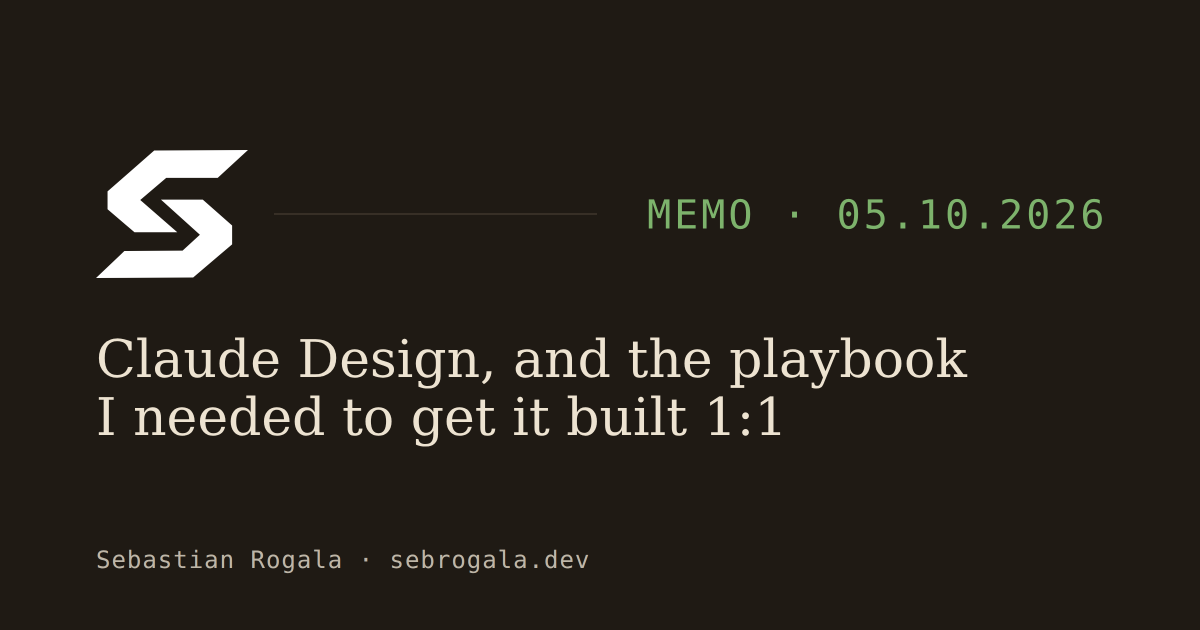
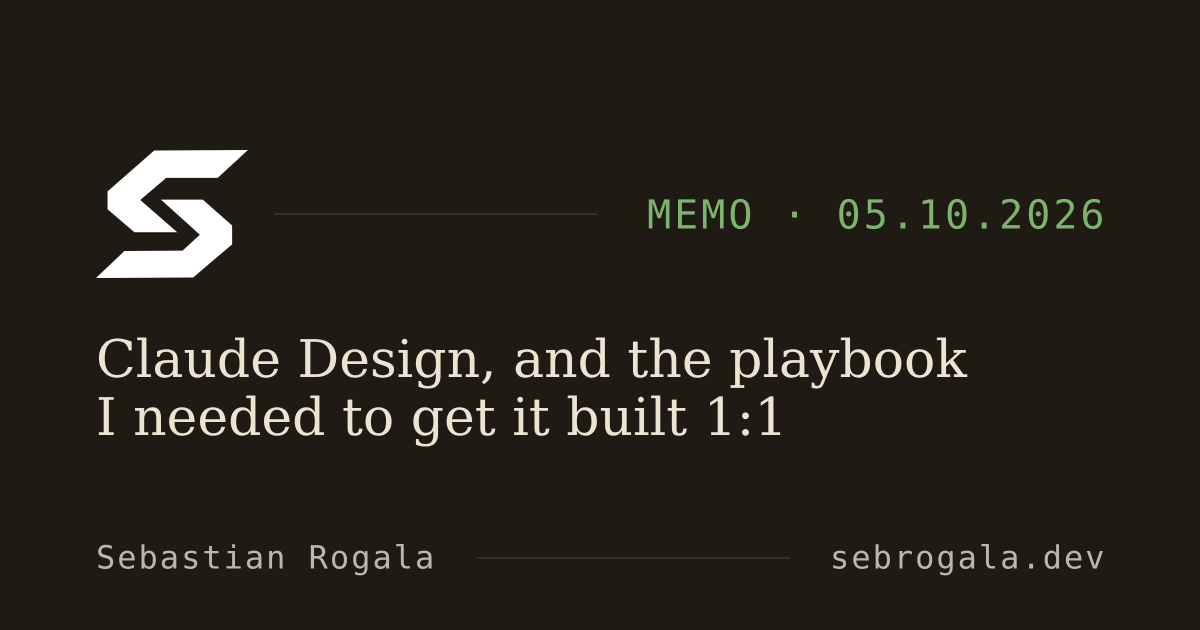
OG cards: 4:3 and 1:1 renders; JSON-LD lists all three ratios
- brand/og-card/render.sh writes <name>.png (16:9), <name>-4x3.png and
  <name>-1x1.png in one run; templates lay out from ?format= (headless
  Chrome's viewport at script time is 1200x543, not --window-size)
- Overflow check moved from render-memos.mjs into render.sh, per format
- Tall site cards: name on two centred lines, block centred vertically;
  16:9 site card unchanged (pixel-identical render)
- Tall memo cards: larger title ladder, name line follows the title, group
  centred vertically
- Memo name line on all formats: 32px, name left, domain right, top-row
  rule between; live 16:9 memo PNGs re-rendered under the same names
- src/lib/ogCard.ts: siteCard path and cardFormats(); Person and
  BlogPosting JSON-LD image lists 1:1, 4:3, 16:9; og:image stays 16:9
- assertOgCard fails the build when any memo render is missing

Changed region(s): [[0.0617, 0.8444, 0.4933, 0.9048], [0.6783, 0.8746, 0.925, 0.9048]]

diff --git a/brand/og-card/memo-card.html b/brand/og-card/memo-card.html
@@ -3,12 +3,18 @@
   Memo social card (og:image), 1200x630, one per memo. Rendered by
   render-memos.mjs through render.sh; reads ?title=…&date=DD.MM.YYYY.
   Mark, rule and tag geometry are identical to og-card.html; the tag reads
-  MEMO · DD.MM.YYYY. Title size starts from the character count (up to 80 → 64px,
+  MEMO · DD.MM.YYYY. The name line echoes the top row: name left, domain right,
+  the same rule between them. Title size starts from the character count (up to 80 → 64px,
   up to 110 → 52px, longer → 44px), then steps down while the title would come
   within 24px of the name line: DejaVu Serif runs wider than the fonts the count
-  thresholds were set with. If 44px still collides, <body> gets data-overflow and
-  render-memos.mjs refuses the card.
+  thresholds were set with. If the smallest size still collides, <body> gets
+  data-overflow and render.sh refuses the card.
   /command tokens in the title are set in the mono face at 0.86em.
+  render.sh also renders 1200x900 (4:3) and 1200x1200 (1:1); the format comes
+  from ?format=. Those use a larger size ladder (4:3: 76/64/52px, 1:1:
+  88/72/60px) with the same thresholds and step-down, and set the name line
+  56px under the title, centring the group from mark to name line in the card
+  height. The 16:9 layout is unchanged.
   DejaVu fonts are named explicitly so the render does not depend on a fallback.
 -->
 <html>
@@ -31,18 +37,32 @@
   }
   .title .cmd { font-family: 'DejaVu Sans Mono'; font-size: 0.86em; }
   .name {
-    position: absolute; left: 96px; bottom: 56px;
-    font-family: 'DejaVu Sans Mono'; font-size: 24px; letter-spacing: 1px;
+    position: absolute; left: 96px; right: 95.5px; bottom: 56px;
+    display: flex; align-items: center; gap: 40px;
+    font-family: 'DejaVu Sans Mono'; font-size: 32px; line-height: 1; letter-spacing: 2px;
     color: #beb6a7; white-space: nowrap;
   }
+  .name span:last-child { margin-right: -2px; }
+  .name i { flex: 1; height: 2px; background: #372f26; }
+  [data-format="4x3"], [data-format="4x3"] body { height: 900px; }
+  [data-format="1x1"], [data-format="1x1"] body { height: 1200px; }
+  #comp { position: absolute; inset: 0; }
 </style>
 </head>
 <body>
-  <img class="mark" src="../svg/sebrogala-1.2A-exact-light.svg" alt="">
-  <div class="rule" id="rule"></div>
-  <div class="tag" id="tag"></div>
-  <div class="title" id="title"></div>
-  <div class="name">Sebastian Rogala · sebrogala.dev</div>
+  <script>
+    // Format from the query, not the viewport: headless Chrome's viewport at
+    // script time is shorter than --window-size.
+    var format = new URLSearchParams(location.search).get('format') || '16x9';
+    document.documentElement.dataset.format = format;
+  </script>
+  <div id="comp">
+    <img class="mark" src="../svg/sebrogala-1.2A-exact-light.svg" alt="">
+    <div class="rule" id="rule"></div>
+    <div class="tag" id="tag"></div>
+    <div class="title" id="title"></div>
+  </div>
+  <div class="name"><span>Sebastian Rogala</span><i></i><span>sebrogala.dev</span></div>
   <script>
     var params = new URLSearchParams(location.search);
     var title = params.get('title') || '';
@@ -60,7 +80,7 @@
       el.appendChild(span);
     });
 
-    var sizes = [64, 52, 44];
+    var sizes = { '16x9': [64, 52, 44], '4x3': [76, 64, 52], '1x1': [88, 72, 60] }[format];
     var limit = document.querySelector('.name').getBoundingClientRect().top - 24;
     var i = title.length <= 80 ? 0 : title.length <= 110 ? 1 : 2;
     el.style.fontSize = sizes[i] + 'px';
@@ -71,6 +91,17 @@
 
     var tag = document.getElementById('tag').getBoundingClientRect();
     document.getElementById('rule').style.width = (tag.left - 50 - 274) + 'px';
+
+    if (format !== '16x9') {
+      // The name line follows the title, and the group from mark to name line is
+      // centred in the card height. The sizing above still guards the overflow.
+      var nameEl = document.querySelector('.name');
+      nameEl.style.bottom = 'auto';
+      nameEl.style.top = (el.getBoundingClientRect().bottom + 56) + 'px';
+      document.getElementById('comp').appendChild(nameEl);
+      var shift = (document.body.offsetHeight - (nameEl.getBoundingClientRect().bottom - 150)) / 2 - 150;
+      document.getElementById('comp').style.transform = 'translateY(' + shift + 'px)';
+    }
   </script>
 </body>
 </html>

diff --git a/brand/og-card/og-card.html b/brand/og-card/og-card.html
@@ -9,6 +9,10 @@
   Rendered at 2x and box-downscaled; a 1x render hints the glyphs differently.
   The rule runs from x=274 to 50px before the tagline box, so a longer tagline
   gives a shorter rule.
+  render.sh also renders 1200x900 (4:3) and 1200x1200 (1:1), for structured data
+  that lists one image per aspect ratio. The format comes from ?format=. In
+  the taller formats the name sets on two centred lines at a larger size, and the block
+  from mark to the name's last baseline is centred vertically. The 16:9 layout is unchanged.
 -->
 <html>
 <head>
@@ -28,16 +32,38 @@
     font-family: 'DejaVu Serif'; font-size: 116px; line-height: 1;
     color: #ede3d1; white-space: nowrap;
   }
+  [data-format="4x3"], [data-format="4x3"] body { height: 900px; }
+  [data-format="1x1"], [data-format="1x1"] body { height: 1200px; }
+  #comp { position: absolute; inset: 0; }
+  [data-format="4x3"] .name { font-size: 150px; }
+  [data-format="1x1"] .name { font-size: 192px; }
+  [data-format="4x3"] .name span, [data-format="1x1"] .name span { display: block; }
+  [data-format="4x3"] .name, [data-format="1x1"] .name { left: 0; right: 0; text-align: center; }
 </style>
 </head>
 <body>
-  <img class="mark" src="../svg/sebrogala-1.2A-exact-light.svg" alt="">
-  <div class="rule" id="rule"></div>
-  <div class="tag" id="tag">AI-NATIVE SOFTWARE ENGINEER</div>
-  <div class="name">Sebastian Rogala</div>
+  <script>
+    // Format from the query, not the viewport: headless Chrome's viewport at
+    // script time is shorter than --window-size.
+    var format = new URLSearchParams(location.search).get('format') || '16x9';
+    document.documentElement.dataset.format = format;
+  </script>
+  <div id="comp">
+    <img class="mark" src="../svg/sebrogala-1.2A-exact-light.svg" alt="">
+    <div class="rule" id="rule"></div>
+    <div class="tag" id="tag">AI-NATIVE SOFTWARE ENGINEER</div>
+    <div class="name" id="name"><span>Sebastian</span> <span>Rogala</span></div>
+  </div>
   <script>
     var tag = document.getElementById('tag').getBoundingClientRect();
     document.getElementById('rule').style.width = (tag.left - 50 - 274) + 'px';
+    if (format !== '16x9') {
+      // Centre on the last baseline, not the line box: DejaVu's descent is ~0.24em.
+      var nameEl = document.getElementById('name');
+      var bottom = nameEl.getBoundingClientRect().bottom - 0.24 * parseFloat(getComputedStyle(nameEl).fontSize);
+      var shift = (document.body.offsetHeight - (bottom - 150)) / 2 - 150;
+      document.getElementById('comp').style.transform = 'translateY(' + shift + 'px)';
+    }
   </script>
 </body>
 </html>

diff --git a/src/lib/memos.ts b/src/lib/memos.ts
@@ -3,6 +3,7 @@
 import { existsSync, readFileSync } from 'node:fs';
 import { join } from 'node:path';
 import { getCollection, type CollectionEntry } from 'astro:content';
+import { cardFormats } from './ogCard';
 
 export type Memo = CollectionEntry<'memos'>;
 
@@ -101,18 +102,21 @@ export const excerptText = (memo: Memo) =>
 
 // ─── OG card ─────────────────────────────────────────────────────
 
-/** Site path of the memo's OG card; rendered by brand/og-card/render-memos.mjs. */
+/** Site path of the memo's 16:9 OG card; rendered, with its cardFormats()
+ * siblings, by brand/og-card/render-memos.mjs. */
 export const ogCardPath = (memo: Memo) => `/og/memos/${memo.id}.png`;
 
 /**
- * Fails the build when a memo's card is missing or stale (rendered for another
+ * Fails the build when any of a memo's card renders is missing, or the card is stale (rendered for another
  * title or date than the memo now has), so no memo ships with a wrong card.
  * render-memos.mjs records what each card shows in brand/og-card/memo-cards.json.
  */
 export const assertOgCard = (memo: Memo) => {
   const fix = `Run: node brand/og-card/render-memos.mjs --only ${memo.id}`;
-  const file = join(process.cwd(), 'public', ogCardPath(memo));
-  if (!existsSync(file)) throw new Error(`Missing OG card for memo "${memo.id}": ${file}. ${fix}`);
+  for (const path of cardFormats(ogCardPath(memo))) {
+    const file = join(process.cwd(), 'public', path);
+    if (!existsSync(file)) throw new Error(`Missing OG card for memo "${memo.id}": ${file}. ${fix}`);
+  }
   const manifestPath = join(process.cwd(), 'brand', 'og-card', 'memo-cards.json');
   const rendered = existsSync(manifestPath) ? JSON.parse(readFileSync(manifestPath, 'utf8'))[memo.id] : undefined;
   const expected = { title: memo.data.title, date: formatDate(memo.data.published) };

diff --git a/src/lib/structuredData.ts b/src/lib/structuredData.ts
@@ -1,5 +1,6 @@
 // JSON-LD for the <head> (passed to Base as `jsonLd`). Person facts live here
 // once; every value is something the site already shows on its pages.
+import { cardFormats, siteCard } from './ogCard';
 
 const site = 'https://sebrogala.dev';
 
@@ -11,13 +12,18 @@ const person = {
   sameAs: ['https://linkedin.com/in/sebrogala', 'https://github.com/SebRogala'],
 };
 
-export const personJsonLd = { '@context': 'https://schema.org', ...person };
+export const personJsonLd = {
+  '@context': 'https://schema.org',
+  ...person,
+  image: cardFormats(siteCard).map((path) => new URL(path, site).href),
+};
 
 interface BlogPostingInput {
   headline: string;
   description: string;
   url: string;
-  image: string;
+  /** Absolute URLs, one per aspect ratio (cardFormats). */
+  image: string[];
   published: Date;
   updated?: Date;
 }

diff --git a/src/lib/ogCard.ts b/src/lib/ogCard.ts
@@ -1,0 +1,10 @@
+// Social card paths. Each card is rendered in three aspect ratios by
+// brand/og-card/render.sh: <name>.png (16:9, the og:image), <name>-4x3.png and
+// <name>-1x1.png. Structured data lists all three, one image per ratio.
+
+/** Site-wide card. Versioned filename: a future swap gets a new URL, so platform
+ * and CDN caches never serve a stale card. LinkedIn caches previews for 7 days. */
+export const siteCard = '/og-card-v3.png';
+
+/** The 1:1, 4:3 and 16:9 renders of a card, given its 16:9 path. */
+export const cardFormats = (card: string) => ['-1x1', '-4x3', ''].map((suffix) => card.replace(/\.png$/, `${suffix}.png`));
